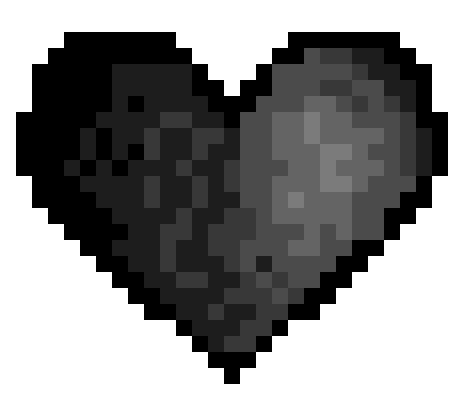
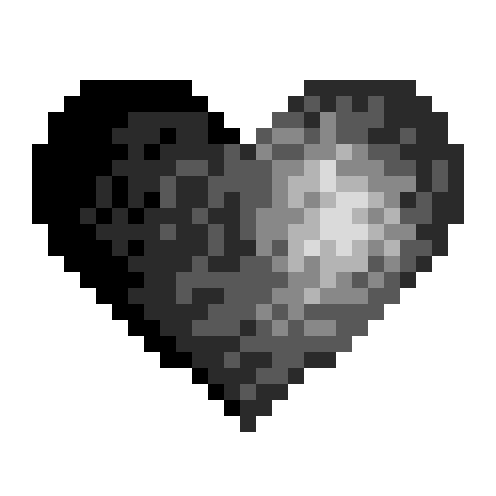
new image

diff --git a/src/components/Petscreens/components/PetscreensComponents/Main.css b/src/components/Petscreens/components/PetscreensComponents/Main.css
@@ -75,7 +75,7 @@
 
 .Main_ComponentImage-Template--WindowScreenPetStatsHealthHeart {
 
-    height: 2.5rem;
+    height: 3rem;
 
 }
  
